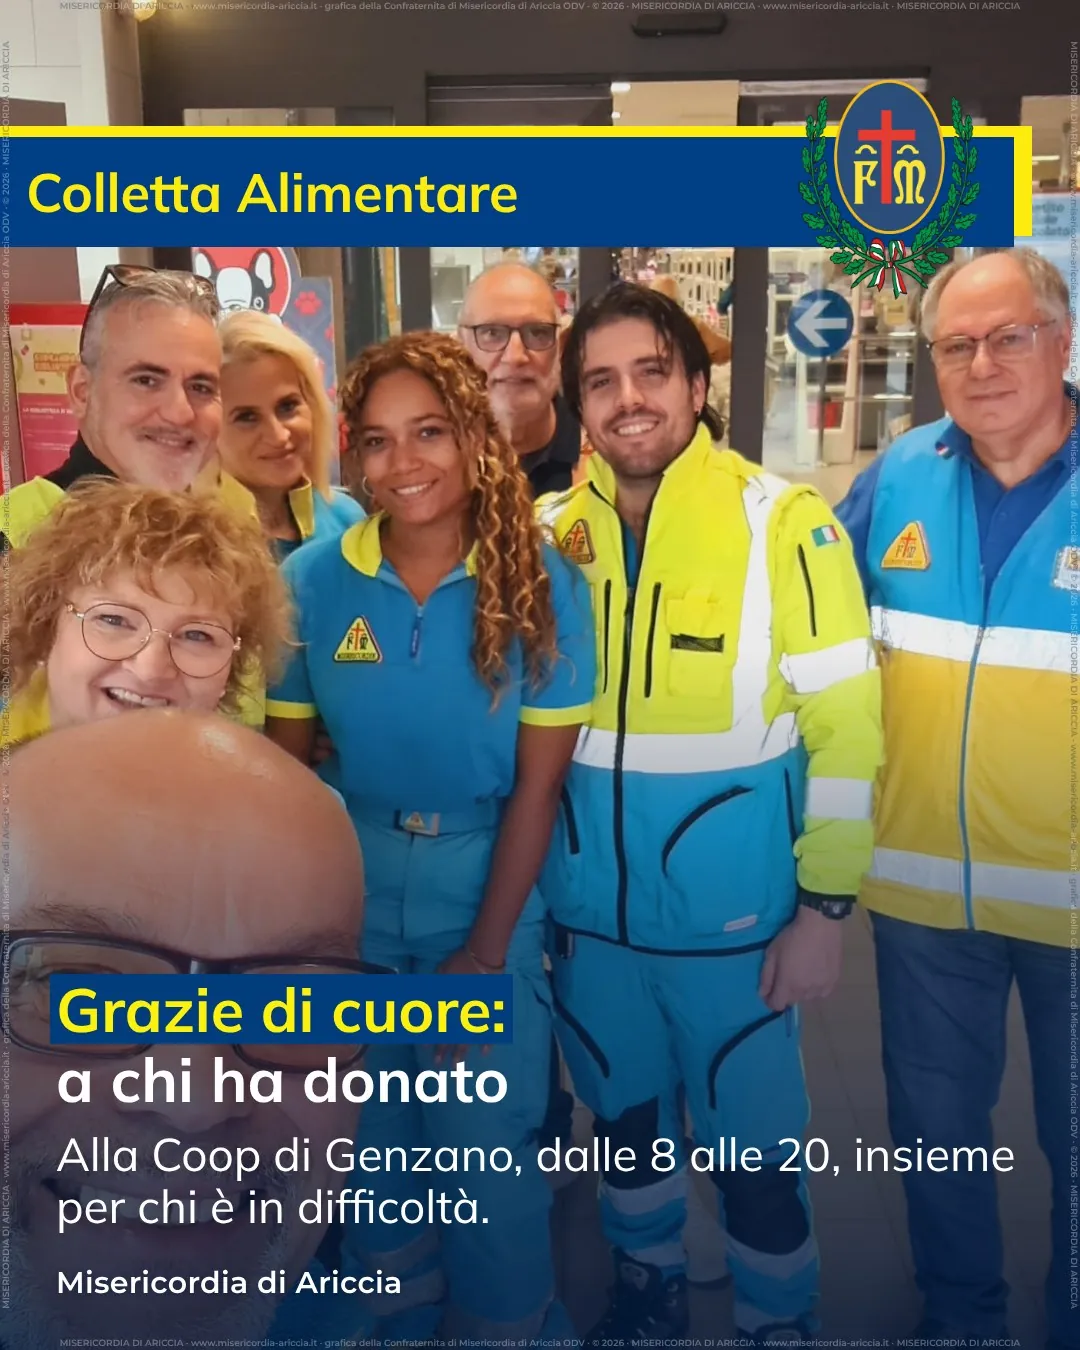
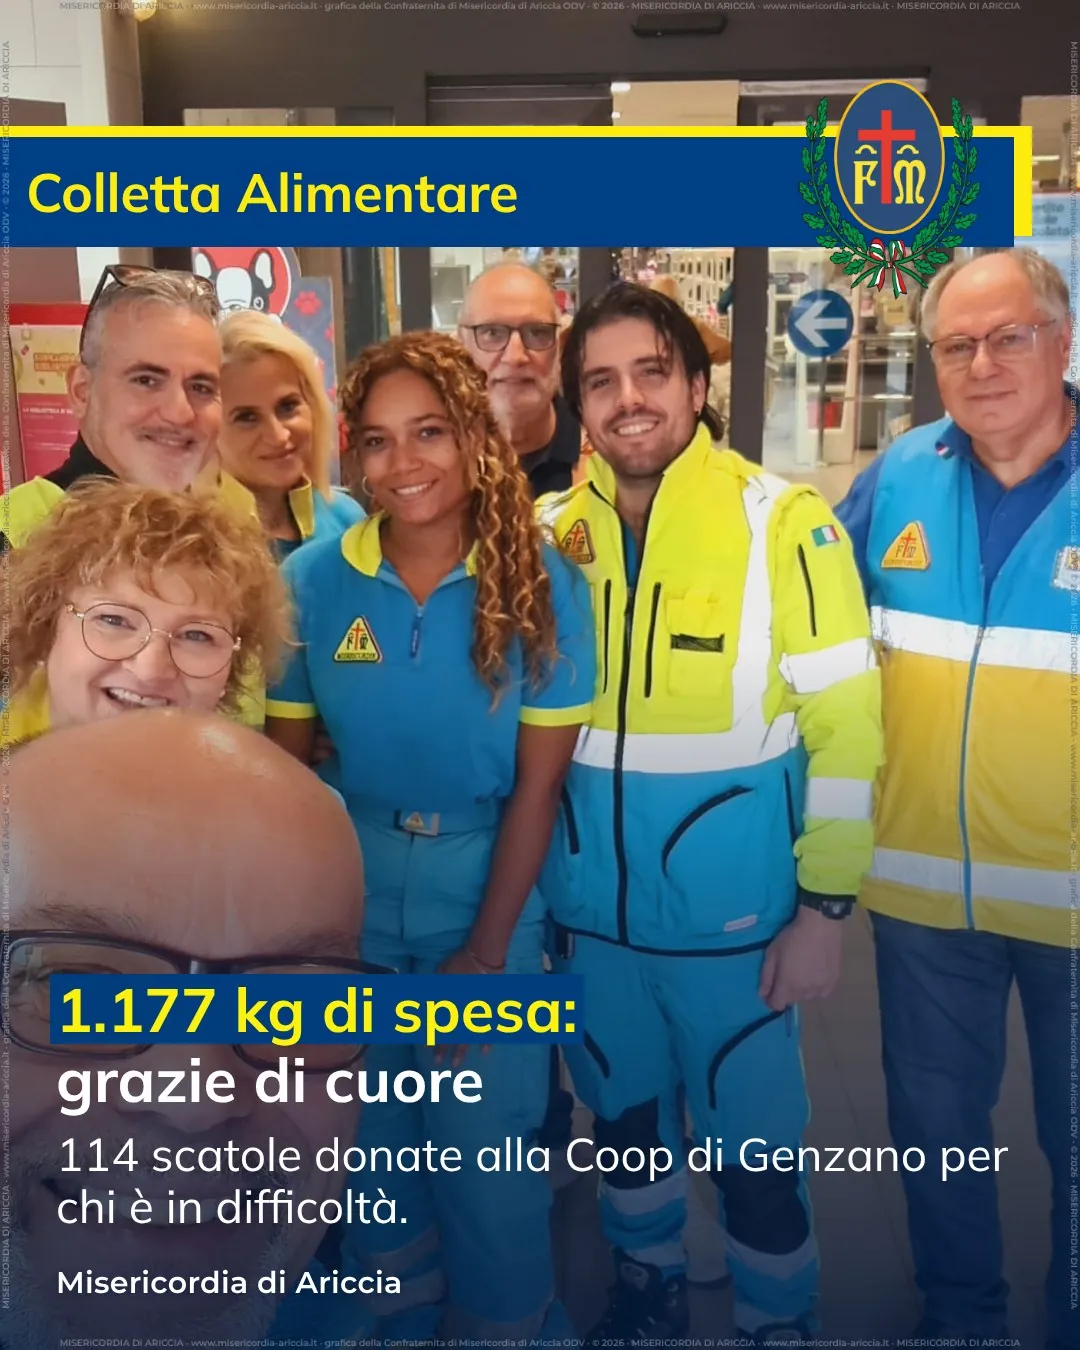
Colletta Alimentare: dati della raccolta alla Coop di Genzano
1.177 kg in 114 scatole, nella grafica e nell'articolo.

Changed region(s): [[0.0306, 0.7156, 0.9472, 0.9333]]

diff --git a/content/news/2026-11-14-colletta-alimentare-grazie.md b/content/news/2026-11-14-colletta-alimentare-grazie.md
@@ -1,14 +1,16 @@
 ---
-title: "Colletta Alimentare: grazie a chi ha donato alla Coop di Genzano"
+title: "Colletta Alimentare: 1.177 kg di spesa donata alla Coop di Genzano. Grazie!"
 titoloSeo: "Colletta Alimentare 2026: il grazie della Misericordia di Ariccia dalla Coop di Genzano di Roma"
 date: 2026-11-14
 slug: "colletta-alimentare-grazie"
-description: "Si è chiusa la giornata della Colletta Alimentare alla Coop di Genzano di Roma: il grazie della Misericordia di Ariccia a chi ha donato la spesa e ai volontari dei turni dalle 8 alle 20."
+description: "Alla Coop di Genzano di Roma la Colletta Alimentare 2026 ha raccolto 1.177 kg di spesa in 114 scatole: il grazie della Misericordia di Ariccia a chi ha donato e ai volontari dei turni dalle 8 alle 20."
 immagine: "/img/news/2026-11-14-colletta-alimentare-grazie-grafica.jpg"
-social_alt: "Grafica della Misericordia di Ariccia: selfie di volontarie e volontari della Misericordia all'ingresso della Coop di Genzano, con la scritta «Colletta Alimentare. Grazie di cuore: a chi ha donato. Alla Coop di Genzano, dalle 8 alle 20, insieme per chi è in difficoltà»."
+social_alt: "Grafica della Misericordia di Ariccia: selfie di volontarie e volontari della Misericordia all'ingresso della Coop di Genzano, con la scritta «Colletta Alimentare. 1.177 kg di spesa: grazie di cuore. 114 scatole donate alla Coop di Genzano per chi è in difficoltà»."
 social_testo: |-
   🛒 Colletta Alimentare: grazie di cuore!
   Si è chiusa la giornata della Colletta Alimentare alla Coop di Genzano di Roma. Dalle 8 alle 20 i volontari della Misericordia di Ariccia, insieme ai volontari del Banco Alimentare, hanno accolto chi entrava e raccolto la spesa donata per le persone in difficoltà.
+
+  Il risultato: 1.177 kg di spesa, in 114 scatole. 📦
 
   Grazie a chi ha donato, a chi si è fermato a salutarci e a chi ha dato qualche ora del suo sabato.
 
@@ -20,14 +22,16 @@ italianoSemplice: |
 
   Tante persone hanno donato una parte della spesa per chi è in difficoltà.
 
+  Abbiamo raccolto 1.177 chili di cibo, in 114 scatole.
+
   Grazie a tutti!
 ---
 
-![Grafica della Misericordia di Ariccia per la Colletta Alimentare: selfie di volontarie e volontari della Misericordia all'ingresso della Coop di Genzano, con la scritta «Grazie di cuore: a chi ha donato. Alla Coop di Genzano, dalle 8 alle 20, insieme per chi è in difficoltà».](/img/news/2026-11-14-colletta-alimentare-grazie-grafica.jpg)
+![Grafica della Misericordia di Ariccia per la Colletta Alimentare: selfie di volontarie e volontari della Misericordia all'ingresso della Coop di Genzano, con la scritta «1.177 kg di spesa: grazie di cuore. 114 scatole donate alla Coop di Genzano per chi è in difficoltà».](/img/news/2026-11-14-colletta-alimentare-grazie-grafica.jpg)
 
 **Si è chiusa la giornata della Colletta Alimentare.** Oggi, sabato 14 novembre, i volontari della Misericordia di Ariccia sono stati alla **Coop di Genzano di Roma**, in via Emilia Romagna 102, dalle 8 alle 20, in tre turni.
 
-Insieme ai volontari del Banco Alimentare abbiamo accolto chi entrava, spiegato la Colletta e raccolto nei sacchetti arancioni la spesa donata. Tutto quello che è stato raccolto va al Banco Alimentare, che lo distribuisce alle realtà che aiutano le persone in difficoltà.
+Insieme ai volontari del Banco Alimentare abbiamo accolto chi entrava, spiegato la Colletta e raccolto nei sacchetti arancioni la spesa donata. **Il risultato: 1.177 kg di spesa donata, in 114 scatole.** Tutto quello che è stato raccolto va al Banco Alimentare, che lo distribuisce alle realtà che aiutano le persone in difficoltà.
 
 ![Cinque volontari della Misericordia di Ariccia in divisa davanti all'ingresso della Coop di Genzano](/img/news/2026-11-14-colletta-alimentare-grazie-2.jpg)
 
@@ -48,5 +52,7 @@ Insieme ai volontari del Banco Alimentare abbiamo accolto chi entrava, spiegato 
 ## Il nostro aiuto continua tutto l'anno
 
 La Colletta è un giorno, ma l'aiuto alle persone in difficoltà va avanti ogni settimana: con il Banco Alimentare distribuiamo beni di prima necessità, come spieghiamo nella pagina dei **[servizi sociali](/servizi/servizi-sociali/)**. Se vuoi esserci anche tu, leggi **[Anche ascoltare è un servizio](/news/anche-ascoltare-e-un-servizio/)** e la pagina **[Diventa volontario](/diventa-volontario/)**, oppure scrivi **VOLONTARIO** su WhatsApp al **[348 4068657](https://wa.me/393484068657?text=VOLONTARIO)**.
+
+*Fonte dei dati: riepilogo del punto vendita B005207 (Coop di via Emilia Romagna 102, Genzano di Roma) nel sistema di raccolta della Colletta Alimentare, sabato 14 novembre 2026 alle 20:48.*
 
 A tutti, con l'antico motto delle Misericordie: **«Che Iddio ve ne renda merito»**.
